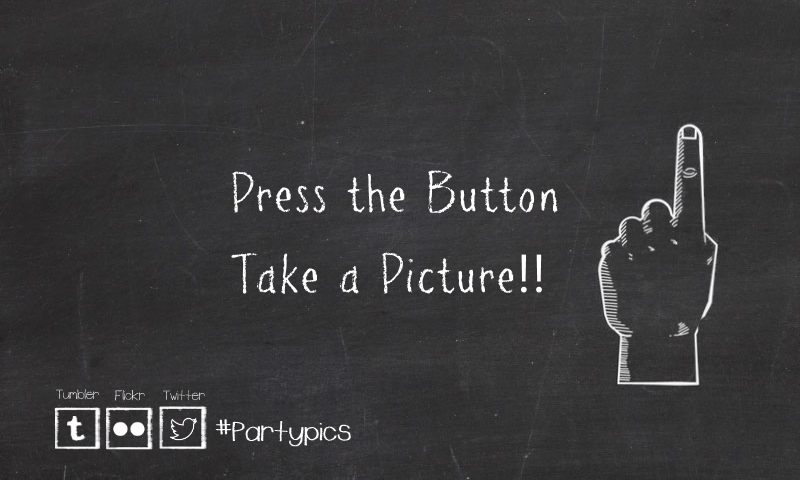
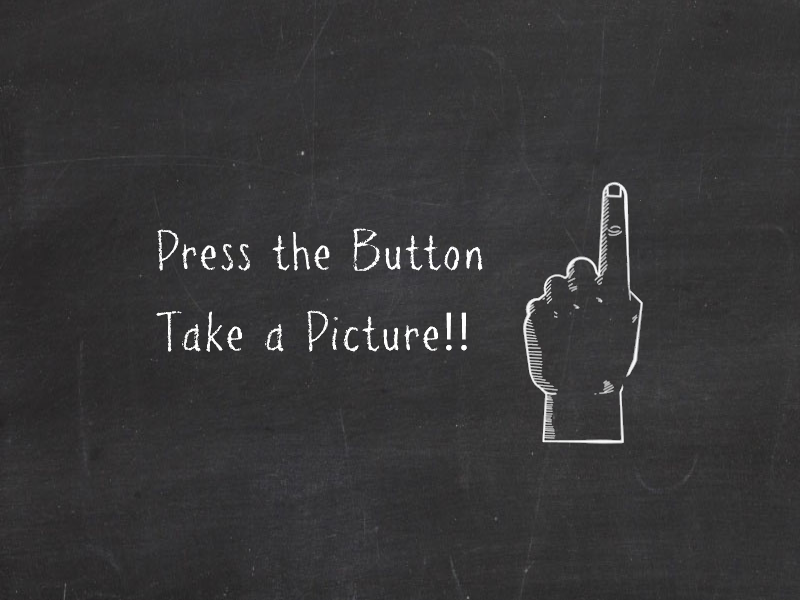
First Attempt at combining code
see code comments for further information

Changed region(s): [[0.1875, 0.25, 0.9062, 0.8125], [0.0625, 0.8125, 0.4375, 0.9375]]

diff --git a/drumminhands_photobooth.py b/drumminhands_photobooth.py
@@ -1,6 +1,15 @@
 #!/usr/bin/env python
 # created by chris@drumminhands.com
 # see instructions at http://www.drumminhands.com/2014/06/15/raspberry-pi-photo-booth/
+# This code is a mashup of three separate but related projects that I have combined to make it function how I envision
+# The bulk of the code comes from here, along with the inspiration:  https://github.com/drumminhands/drumminhands_photobooth
+# Part of the countdown setup comes from here:  https://github.com/galadril/drumminhands_photobooth/  (I had trouble with the screen going black after the 3rd picture and not 
+#coming back on until the processing image appeared.)
+# The changes to the countdown setup came from here:  https://github.com/jrleeman/PiBooth/ (really neat ideas in his code.  Very clean and well documented, however, no preview of 
+# the images afterwards.)  Also has code for uploading to twitter as an expansion.
+# Future development I want to add to the code is the idea that galadril had to create a short press for animated gif and long press for mosaic.  I think that would be an awesome 
+# addition to the code
+
 
 
 import os
@@ -16,7 +25,7 @@ import atexit
 import sys, getopt
 import socket
 import pygame
-import cups
+#import cups
 import fcntl
 import struct
 import commands
@@ -49,28 +58,32 @@ button3_pin = 16 # pin for button to end the program, but not shutdown the pi
 
 enable_color_effects = 0 # default 1. Change to 0 if you don't want to upload pics.
 enable_image_effects = 0 # default 1. Change to 0 if you don't want to upload pics.
-post_online = 1 # default 1. Change to 0 if you don't want to upload pics.
+post_online = 0 # default 1. Change to 0 if you don't want to upload pics.
 
 total_pics = 4 # number of pics to be taken
 capture_delay = 0 # delay between pics
 prep_delay = 3 # number of seconds at step 1 as users prep to have photo taken
 gif_delay = 100 # How much time between frames in the animated gif
 restart_delay = 4 # how long to display finished message before beginning a new session
+count_from = 3 # How long should the countdown be before each photo
 
 monitor_w = 800
-monitor_h = 480
+monitor_h = 600
 transform_x = 800 # how wide to scale the jpg when replaying
-transfrom_y = 480 # how high to scale the jpg when replaying
+transfrom_y = 600 # how high to scale the jpg when replaying
 
 offset_x = 0 # how far off to left corner to display photos
 offset_y = 0 # how far off to left corner to display photos
 replay_delay = 1 # how much to wait in-between showing pics on-screen after taking
-replay_cycles = 1 # how many times to show each photo on-screen after taking
+replay_cycles = 2 # how many times to show each photo on-screen after taking
 
 test_server = 'www.google.com'
 real_path = os.path.dirname(os.path.realpath(__file__))
 
 font = ImageFont.truetype("/usr/share/fonts/truetype/freefont/FreeSans.ttf", 200)
+bigfont = pygame.font.Font(None, 800)
+smfont = pygame.font.Font(None, 600)
+tinyfont = pygame.font.Font(None, 300)
 
 #extract the ip address (or addresses) from ifconfig
 found_ips = []
@@ -134,22 +147,101 @@ def exit_photobooth(channel):
     time.sleep(3)
     sys.exit()
 	
-def countdown(camera):
-	overlay_renderer = None
-	for j in range(1,4):
-		img = Image.new("RGB", (monitor_w, monitor_h))
-		draw = ImageDraw.Draw(img)
-		draw.text(((monitor_w/2)-50,(monitor_h/2)-50), str(4-j), (255, 255, 255), font=font)
-		if not overlay_renderer:
-			overlay_renderer = camera.add_overlay(img.tostring(),layer=3,size=img.size,alpha=28);
-		else:
-			overlay_renderer.update(img.tostring())
-		sleep(1)
+def drawText(font, textstr, clear_screen=True, color=(250, 10, 10)):
+    """
+    Draws the given string onto the pygame screen.
+    Parameters:
+    -----------
+    font : object
+        pygame font object
+    textstr: string
+        text to be written to the screen
+    clean_screan : boolean
+        determines if previously shown text should be cleared
+    color : tuple
+        RGB tuple of font color
+    Returns:
+    --------
+    None
+    """
+    if clear_screen:
+        screen.fill(black)  # black screen
 
-	img = Image.new("RGB", (monitor_w, monitor_h))
-	draw = ImageDraw.Draw(img)
-	draw.text((monitor_w/2,monitor_h/2), " ", (255, 255, 255), font=font)
-	overlay_renderer.update(img.tostring())
+    # Render font
+    pltText = font.render(textstr, 1, color)
+
+    # Center text
+    textpos = pltText.get_rect()
+    textpos.centerx = screen.get_rect().centerx
+    textpos.centery = screen.get_rect().centery
+
+    # Blit onto screen
+    screen.blit(pltText, textpos)
+
+    # Update
+    pygame.display.update()
+
+
+def clearScreen():
+    """
+    Clears the pygame screen of all drawn objects.
+    Parameters:
+    -----------
+    None
+    Returns:
+    --------
+    None
+    """
+    screen.fill(black)
+    pygame.display.update()
+
+	
+#def countdown(camera):
+#	overlay_renderer = None
+#	for j in range(1,4):
+#		img = Image.new("RGB", (monitor_w, monitor_h))
+#		draw = ImageDraw.Draw(img)
+#		draw.text(((monitor_w/2)-50,(monitor_h/2)-50), str(4-j), (255, 255, 255), font=font)
+#		if not overlay_renderer:
+#			overlay_renderer = camera.add_overlay(img.tostring(),layer=3,size=img.size,alpha=28);
+#		else:
+#			overlay_renderer.update(img.tostring())
+#		sleep(1)
+#
+#	img = Image.new("RGB", (monitor_w, monitor_h))
+#	draw = ImageDraw.Draw(img)
+#	draw.text((monitor_w/2,monitor_h/2), " ", (255, 255, 255), font=font)
+#	overlay_renderer.update(img.tostring())
+
+def doCountdown(pretext="Ready", pretext_fontsize=600, count_from):
+    """
+    Performs on screen countdown
+    Parameters:
+    -----------
+    pretext : string
+        Text shown before countdown starts
+    pretext_fontsize : int
+        Size of pretext font
+    countfrom : int
+        Number to count down from
+    """
+    pretext_font = pygame.font.Font(None, pretext_fontsize)
+    drawText(pretext_font, pretext)
+    sleep(1)
+    clearScreen()
+
+    # Count down on the display
+    for i in range(count_from, 0, -1):
+        # Draw text on the screen
+        drawText(bigfont, str(i))
+
+        # Flash the LED during the second of dead time
+        #for j in range(4):
+        #    outputToggle(ledPin, False, time=0.125)
+        #    outputToggle(ledPin, True, time=0.125)
+
+    # Clear the screen one final time so no numbers are left
+    clearScreen()
 	
 def is_connected():
   try:
@@ -175,7 +267,8 @@ def init_pygame():
     size = (pygame.display.Info().current_w, pygame.display.Info().current_h)
     pygame.display.set_caption('Photo Booth Pics')
     pygame.mouse.set_visible(False) #hide the mouse cursor	
-    return pygame.display.set_mode(size, pygame.FULLSCREEN)
+	black = 0, 0, 0
+	return pygame.display.set_mode(size, pygame.FULLSCREEN)
 
 def show_image(image_path, t):
 	screen = init_pygame()
@@ -252,7 +345,7 @@ def start_photobooth():
 	pixel_width = 1000 #use a smaller size to process faster, and tumblr will only take up to 500 pixels wide for animated gifs
 	pixel_height = monitor_h * pixel_width // monitor_w
 	camera.resolution = (pixel_width, pixel_height) 
-	camera.vflip = True
+	camera.vflip = False
 	camera.hflip = False
 	
 	#camera.sharpness = 10
@@ -267,15 +360,15 @@ def start_photobooth():
 	camera.awb_mode = 'auto'
 	
 	#random effect (filter and color)
-	if enable_color_effects:
-		colour = (random.randint(0, 256),random.randint(0, 256))
-		print "Colour effect: " + str(colour)
-		camera.color_effects = colour
+	#if enable_color_effects:
+	#	colour = (random.randint(0, 256),random.randint(0, 256))
+	#	print "Colour effect: " + str(colour)
+	#	camera.color_effects = colour
 	
-	if enable_image_effects:
-		image_effect = picamera.PiCamera.IMAGE_EFFECTS.keys()[random.randint(0, len(picamera.PiCamera.IMAGE_EFFECTS))]	
-		print "Filter effect: " + image_effect
-		camera.image_effect = image_effect
+	#if enable_image_effects:
+	#	image_effect = picamera.PiCamera.IMAGE_EFFECTS.keys()[random.randint(0, len(picamera.PiCamera.IMAGE_EFFECTS))]	
+	#	print "Filter effect: " + image_effect
+	#	camera.image_effect = image_effect
 	
 	camera.saturation = -20 # comment out this line if you want color images
 	camera.start_preview()
@@ -288,7 +381,8 @@ def start_photobooth():
 		#for i, filename in enumerate(camera.capture_continuous(config.file_path + now + '-' + '{counter:02d}.jpg')):
 		for i in range(0, total_pics):
 			filename = generated_filepath + now + "-0" + str(i) + ".jpg"
-			countdown(camera)
+			doCountdown()
+			#countdown(camera)
 			GPIO.output(led2_pin,True) #turn on the LED
 			camera.capture(filename)
 			print(filename)
@@ -331,7 +425,7 @@ def start_photobooth():
 				else:
 					file_to_upload = generated_filepath + now + "_mosaic.jpg"
 					
-				client.create_photo(config.tumblr_blog, state="published", tags=["PartyPics", generated_tag], data=file_to_upload)
+				client.create_photo(config.tumblr_blog, state="published", tags=["Photobooth", generated_tag], data=file_to_upload)
 				break
 			except ValueError:
 				print "Oops. No internect connection. Upload later."
@@ -379,7 +473,7 @@ generated_filepath = config.file_path + "/" + generated_tag + "/"
 if not os.path.exists(generated_filepath):
     os.makedirs(generated_filepath)
 
-print "PartyPics app running..." 
+print "Photobooth running..." 
 GPIO.output(led1_pin,True); #light up the lights to show the app is running
 GPIO.output(led2_pin,True);
 GPIO.output(led3_pin,True);
@@ -396,7 +490,9 @@ print "IP: "+"\r\n".join(found_ips)
 show_image(real_path + "/intro.png", "IP: "+"\r\n".join(found_ips));
 time.sleep(5)
 
-GPIO.add_event_detect(button2_pin, GPIO.BOTH, callback=exit_photobooth, bouncetime=100) 
+#GPIO.add_event_detect(button2_pin, GPIO.BOTH, callback=exit_photobooth, bouncetime=100)
+GPIO.add_event_detect(button3_pin, GPIO.FALLING, callback=exit_photobooth, bouncetime=300)
+
 
 try:  
 	while True:
